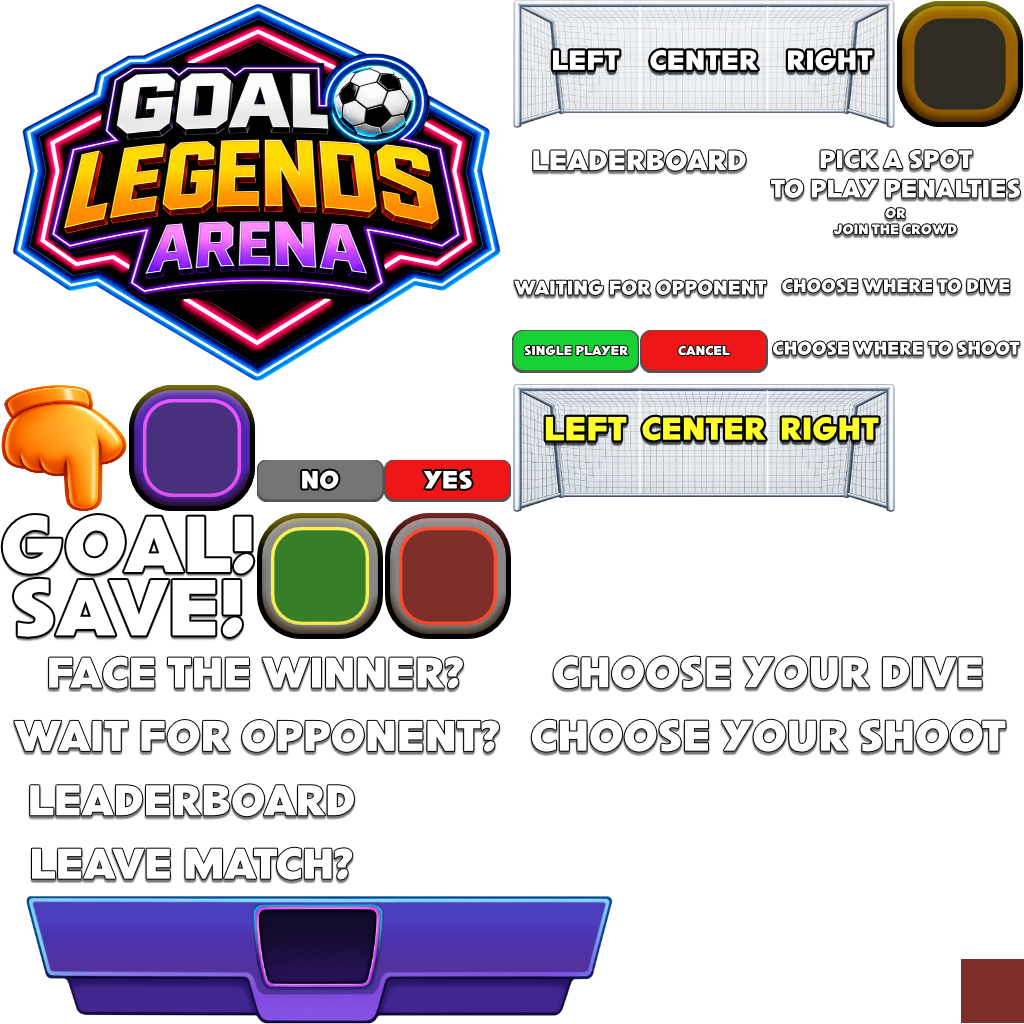
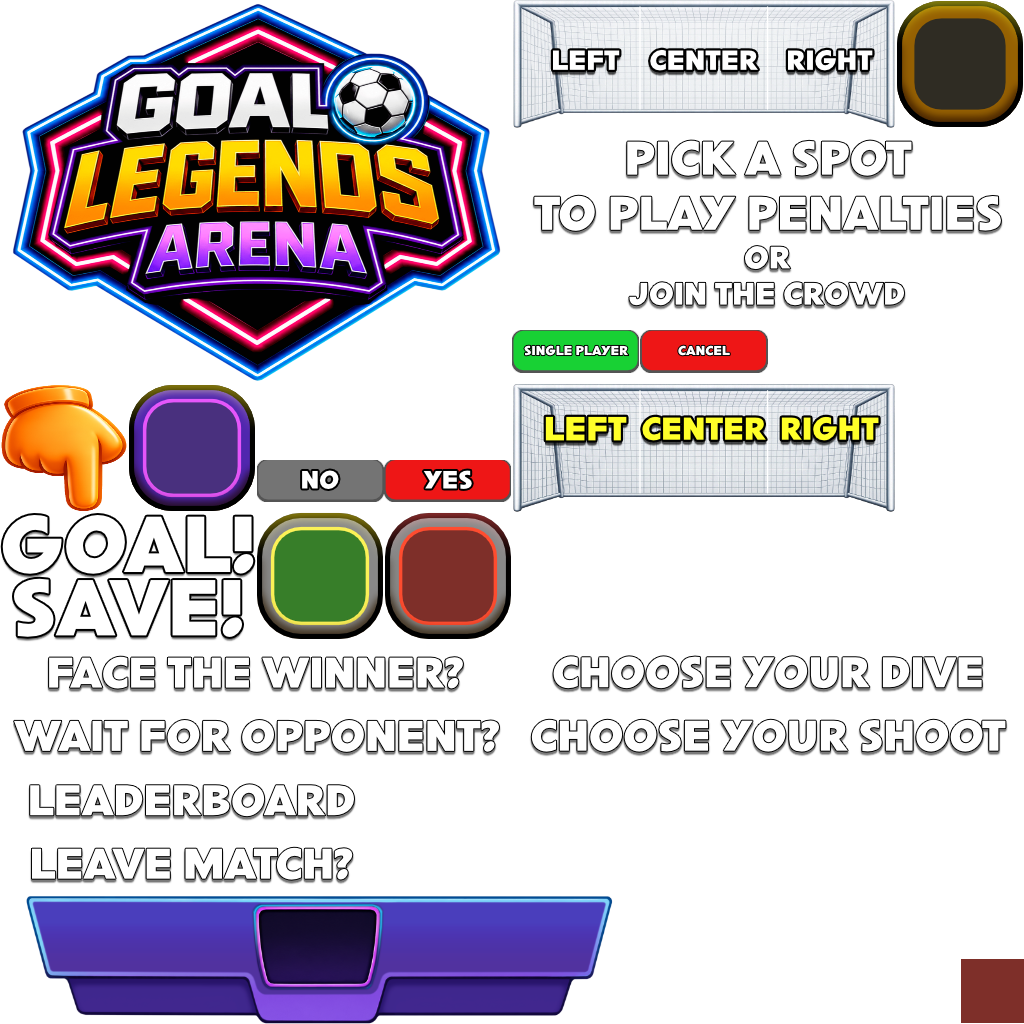
Improve "Pick a spot" ui

Changed region(s): [[0.5, 0.125, 1.0, 0.375]]

diff --git a/src/client/uiManager.tsx b/src/client/uiManager.tsx
@@ -38,6 +38,7 @@ import {
   logoBackground,
   scoreboardBackground,
   welcomeChooseSpotOverlayBackground,
+  welcomeChooseSpotOverlayAspect,
   pickDirectionTitleDiveBackground,
   pickDirectionTitleShootBackground,
   pickDirectionTitleAspect,
@@ -809,6 +810,14 @@ const lbRows = getLeaderboardRows(s.leaderboardJson, LEADERBOARD_TOP_N)
   const waitTitleWidth = Math.floor(waitPanelW * 0.85)
   // Alto derivado del aspect real del sprite para no estirarlo.
   const waitTitleHeight = Math.floor(waitTitleWidth / waitingOpponentTitleAspect())
+
+  // Welcome "pick a spot": overlay con aspect real centrado, panel un poco más alto para
+  // dejar padding arriba/abajo (si solo achicara el overlay se estiraría).
+  const welcomePanelW = isMobile() ? 800 : 480
+  const welcomeOverlayW = Math.floor(welcomePanelW * 0.8)
+  const welcomeOverlayH = Math.floor(welcomeOverlayW / welcomeChooseSpotOverlayAspect())
+  const welcomePanelPadY = isMobile() ? 70 : 44
+  const welcomePanelH = welcomeOverlayH + welcomePanelPadY * 2
   const waitBtnW = Math.floor((isMobile() ? 220 * 1.3 : 180) * 1.2)
   const waitBtnH = Math.floor(waitBtnW / 2)
 
@@ -1873,8 +1882,8 @@ const lbRows = getLeaderboardRows(s.leaderboardJson, LEADERBOARD_TOP_N)
         >
           <UiEntity
             uiTransform={{
-              width: isMobile() ? 800 : 480,
-              height: isMobile() ? 400 : 240,
+              width: welcomePanelW,
+              height: welcomePanelH,
               positionType: 'relative'
             }}
           >
@@ -1882,16 +1891,16 @@ const lbRows = getLeaderboardRows(s.leaderboardJson, LEADERBOARD_TOP_N)
             <UiEntity
               uiTransform={{
                 positionType: 'absolute',
-                position: { top: '10%', left: '10%' },
-                width: '80%',
-                height: '80%',
+                position: { top: 0, left: 0 },
+                width: '100%',
+                height: '100%',
                 display: 'flex',
                 alignItems: 'center',
                 justifyContent: 'center'
               }}
             >
               <UiEntity
-                uiTransform={{ width: '100%', height: '100%' }}
+                uiTransform={{ width: welcomeOverlayW, height: welcomeOverlayH }}
                 uiBackground={welcomeChooseSpotOverlayBackground()}
               />
             </UiEntity>

diff --git a/src/client/uiAtlasStore.ts b/src/client/uiAtlasStore.ts
@@ -60,12 +60,17 @@ export function scoreboardBackground() {
   return uiAtlasRangeBackground(SCOREBOARD_BG_FROM, SCOREBOARD_BG_TO)
 }
 
-export const WELCOME_SPOT_OVERLAY_FROM = 'G3'
-export const WELCOME_SPOT_OVERLAY_TO = 'H4'
+export const WELCOME_SPOT_OVERLAY_FROM = 'E3'
+export const WELCOME_SPOT_OVERLAY_TO = 'H5'
 
-/** Overlay centered over welcome banner (UI_atlas G3–H4). */
+/** Overlay centered over welcome banner (UI_atlas E3–H5). */
 export function welcomeChooseSpotOverlayBackground() {
   return uiAtlasRangeBackground(WELCOME_SPOT_OVERLAY_FROM, WELCOME_SPOT_OVERLAY_TO)
+}
+
+/** Aspect (width / height) of the welcome "pick a spot" overlay, to size its box without stretch. */
+export function welcomeChooseSpotOverlayAspect(): number {
+  return uiAtlasRangeAspect(WELCOME_SPOT_OVERLAY_FROM, WELCOME_SPOT_OVERLAY_TO)
 }
 
 export function pickDirectionLeftBackground() {
